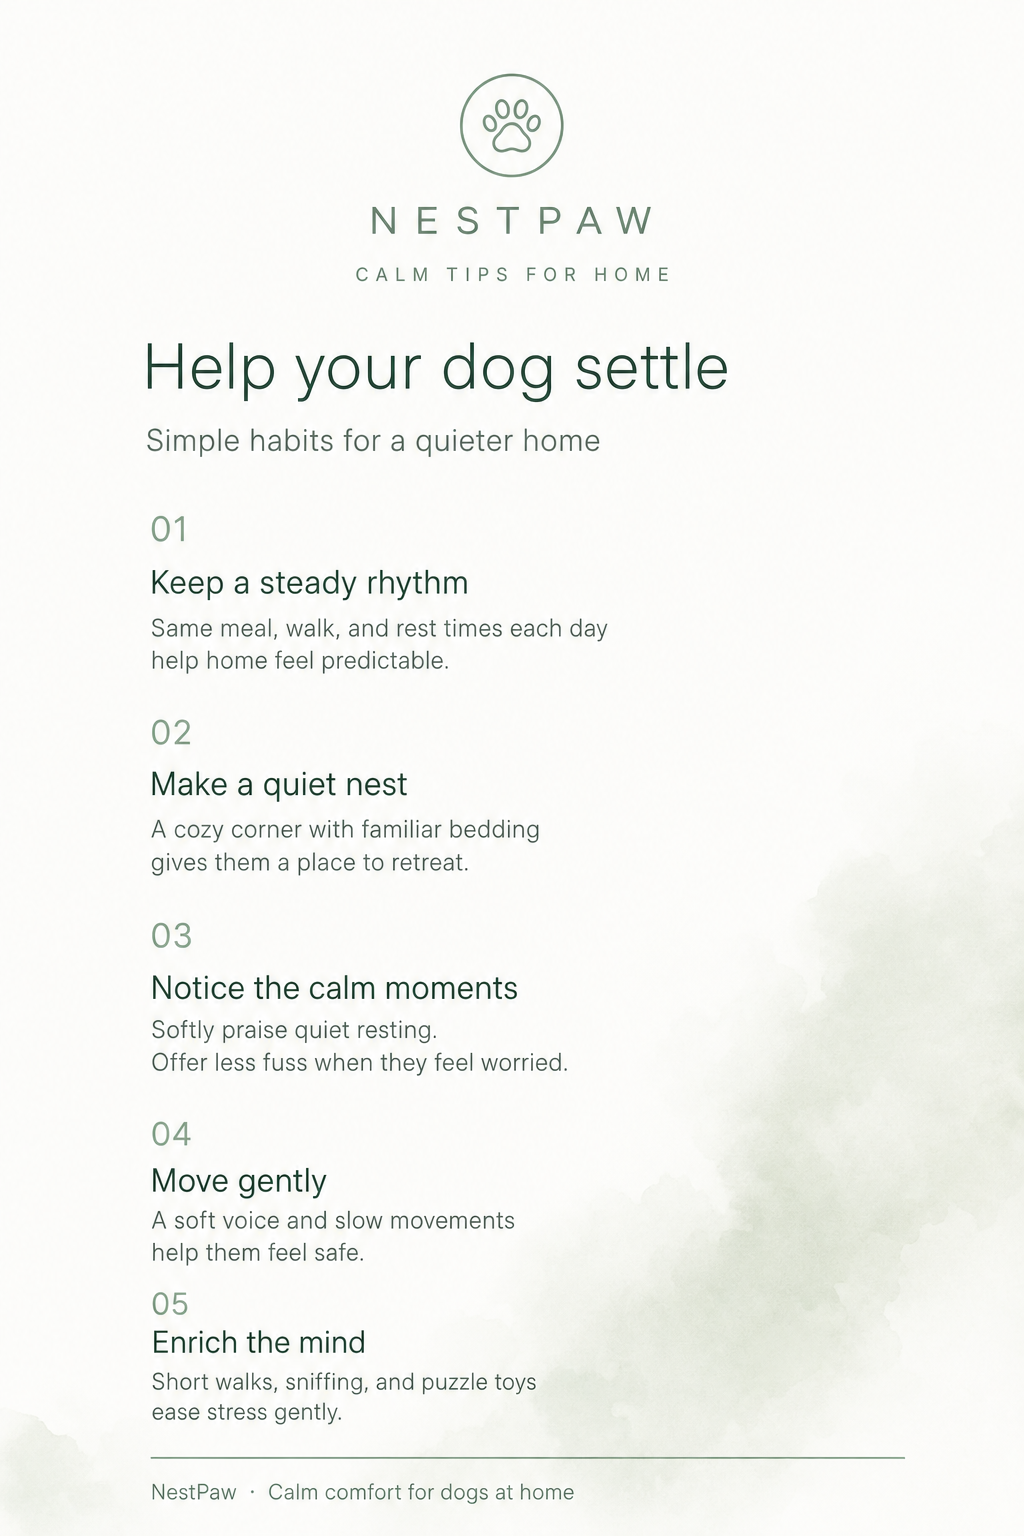
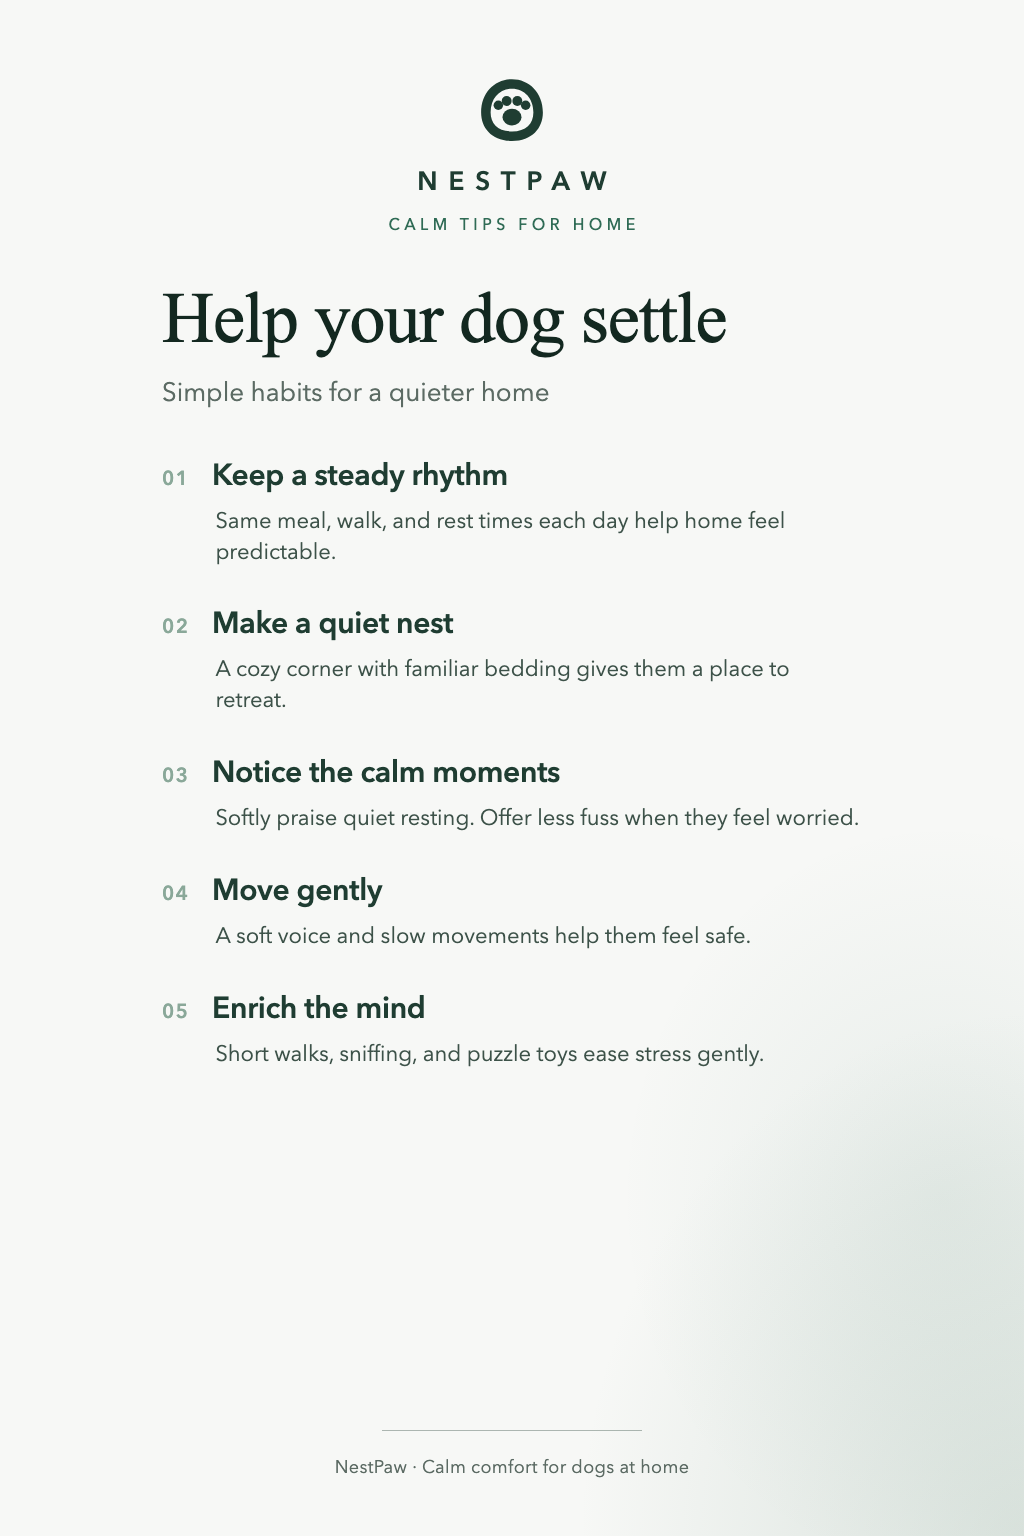
Redesign calm tips card: centered layout, left-aligned tips, larger type

diff --git a/store/public/packaging/nestpaw-calm-tips-card.html b/store/public/packaging/nestpaw-calm-tips-card.html
@@ -1,0 +1,241 @@
+<!DOCTYPE html>
+<html lang="en">
+  <head>
+    <meta charset="utf-8" />
+    <title>NestPaw Calm Tips Card</title>
+    <style>
+      * {
+        box-sizing: border-box;
+        margin: 0;
+        padding: 0;
+      }
+
+      html,
+      body {
+        width: 1024px;
+        height: 1536px;
+        overflow: hidden;
+        background: #f7f8f6;
+      }
+
+      .card {
+        position: relative;
+        width: 1024px;
+        height: 1536px;
+        padding: 72px 72px 64px;
+        color: #1f3d32;
+        background:
+          radial-gradient(
+            ellipse 70% 55% at 100% 100%,
+            rgba(138, 168, 153, 0.28),
+            transparent 62%
+          ),
+          radial-gradient(
+            ellipse 45% 35% at 92% 78%,
+            rgba(47, 107, 85, 0.08),
+            transparent 70%
+          ),
+          #f7f8f6;
+        font-family: "Avenir Next", Avenir, "Helvetica Neue", Helvetica, sans-serif;
+      }
+
+      .brand {
+        display: flex;
+        flex-direction: column;
+        align-items: center;
+        gap: 16px;
+        margin-bottom: 44px;
+      }
+
+      .mark {
+        width: 76px;
+        height: 76px;
+        color: #1f3d32;
+      }
+
+      .wordmark {
+        font-size: 26px;
+        font-weight: 600;
+        letter-spacing: 0.42em;
+        text-indent: 0.42em;
+        text-transform: uppercase;
+      }
+
+      .eyebrow {
+        margin-top: -2px;
+        font-size: 16px;
+        font-weight: 500;
+        letter-spacing: 0.28em;
+        text-indent: 0.28em;
+        text-transform: uppercase;
+        color: #2f6b55;
+      }
+
+      .headline {
+        margin: 0 0 18px 0;
+        font-family: "Times New Roman", Times, Georgia, serif;
+        font-size: 72px;
+        font-weight: 500;
+        line-height: 1.08;
+        letter-spacing: -0.015em;
+        color: #132820;
+        text-align: left;
+      }
+
+      .column {
+        width: 700px;
+        margin: 0 auto;
+        text-align: left;
+      }
+
+      .lede {
+        margin: 0 0 44px 0;
+        font-size: 26px;
+        font-weight: 400;
+        line-height: 1.35;
+        color: #5c6b64;
+        text-align: left;
+      }
+
+      .tips {
+        display: flex;
+        flex-direction: column;
+        gap: 36px;
+      }
+
+      .tip-head {
+        display: flex;
+        align-items: baseline;
+        gap: 16px;
+        margin-bottom: 10px;
+      }
+
+      .tip-num {
+        flex: 0 0 auto;
+        width: 1.7em;
+        font-size: 20px;
+        font-weight: 600;
+        letter-spacing: 0.08em;
+        color: #8aa899;
+      }
+
+      .tip-title {
+        font-size: 30px;
+        font-weight: 600;
+        letter-spacing: -0.01em;
+        color: #1f3d32;
+      }
+
+      .tip-body {
+        padding-left: calc(1.7em + 16px);
+        font-size: 22px;
+        line-height: 1.4;
+        color: #3d5249;
+      }
+
+      .footer {
+        position: absolute;
+        left: 72px;
+        right: 72px;
+        bottom: 56px;
+        text-align: center;
+      }
+
+      .footer::before {
+        content: "";
+        display: block;
+        width: 260px;
+        height: 1px;
+        margin: 0 auto 24px;
+        background: rgba(31, 61, 50, 0.35);
+      }
+
+      .footer span {
+        font-size: 18px;
+        letter-spacing: 0.02em;
+        color: #5c6b64;
+      }
+    </style>
+  </head>
+  <body>
+    <article class="card">
+      <header class="brand">
+        <svg class="mark" viewBox="0 0 64 64" aria-hidden="true">
+          <path
+            fill="currentColor"
+            fill-rule="evenodd"
+            d="M32 6c14.4 0 26 11.2 26 28 0 13.2-9.2 24-26 24S6 47.2 6 34C6 17.2 17.6 6 32 6Zm0 8C21.5 14 14 22.2 14 34c0 9.4 6.2 16 18 16s18-6.6 18-16C50 22.2 42.5 14 32 14Z"
+          />
+          <ellipse cx="32" cy="38" rx="8" ry="7" fill="currentColor" />
+          <circle cx="20.5" cy="28" r="4" fill="currentColor" />
+          <circle cx="27.5" cy="24.5" r="4.2" fill="currentColor" />
+          <circle cx="36.5" cy="24.5" r="4.2" fill="currentColor" />
+          <circle cx="43.5" cy="28" r="4" fill="currentColor" />
+        </svg>
+        <div class="wordmark">NestPaw</div>
+        <div class="eyebrow">Calm tips for home</div>
+      </header>
+
+      <div class="column">
+        <h1 class="headline">Help your dog settle</h1>
+        <h2 class="lede">Simple habits for a quieter home</h2>
+
+        <div class="tips">
+          <section class="tip">
+            <div class="tip-head">
+              <span class="tip-num">01</span>
+              <h2 class="tip-title">Keep a steady rhythm</h2>
+            </div>
+            <p class="tip-body">
+              Same meal, walk, and rest times each day help home feel predictable.
+            </p>
+          </section>
+
+          <section class="tip">
+            <div class="tip-head">
+              <span class="tip-num">02</span>
+              <h2 class="tip-title">Make a quiet nest</h2>
+            </div>
+            <p class="tip-body">
+              A cozy corner with familiar bedding gives them a place to retreat.
+            </p>
+          </section>
+
+          <section class="tip">
+            <div class="tip-head">
+              <span class="tip-num">03</span>
+              <h2 class="tip-title">Notice the calm moments</h2>
+            </div>
+            <p class="tip-body">
+              Softly praise quiet resting. Offer less fuss when they feel worried.
+            </p>
+          </section>
+
+          <section class="tip">
+            <div class="tip-head">
+              <span class="tip-num">04</span>
+              <h2 class="tip-title">Move gently</h2>
+            </div>
+            <p class="tip-body">
+              A soft voice and slow movements help them feel safe.
+            </p>
+          </section>
+
+          <section class="tip">
+            <div class="tip-head">
+              <span class="tip-num">05</span>
+              <h2 class="tip-title">Enrich the mind</h2>
+            </div>
+            <p class="tip-body">
+              Short walks, sniffing, and puzzle toys ease stress gently.
+            </p>
+          </section>
+        </div>
+      </div>
+
+      <footer class="footer">
+        <span>NestPaw · Calm comfort for dogs at home</span>
+      </footer>
+    </article>
+  </body>
+</html>
